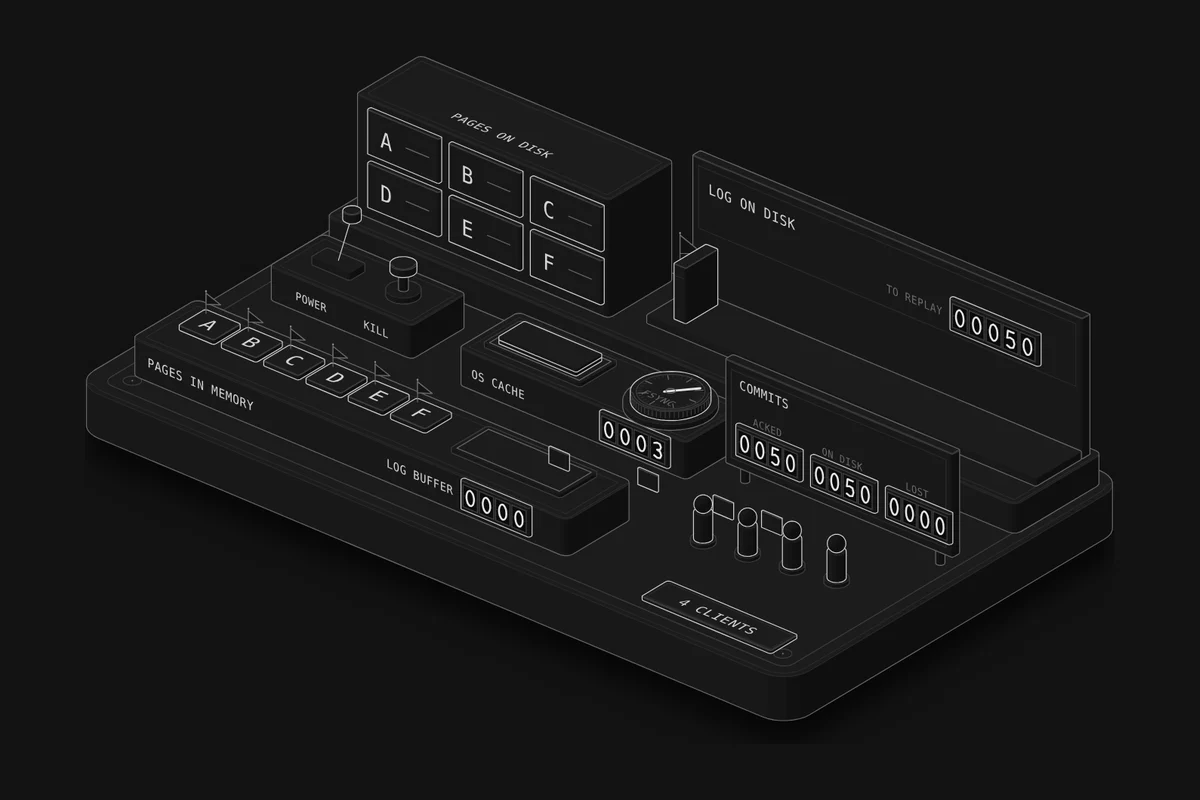
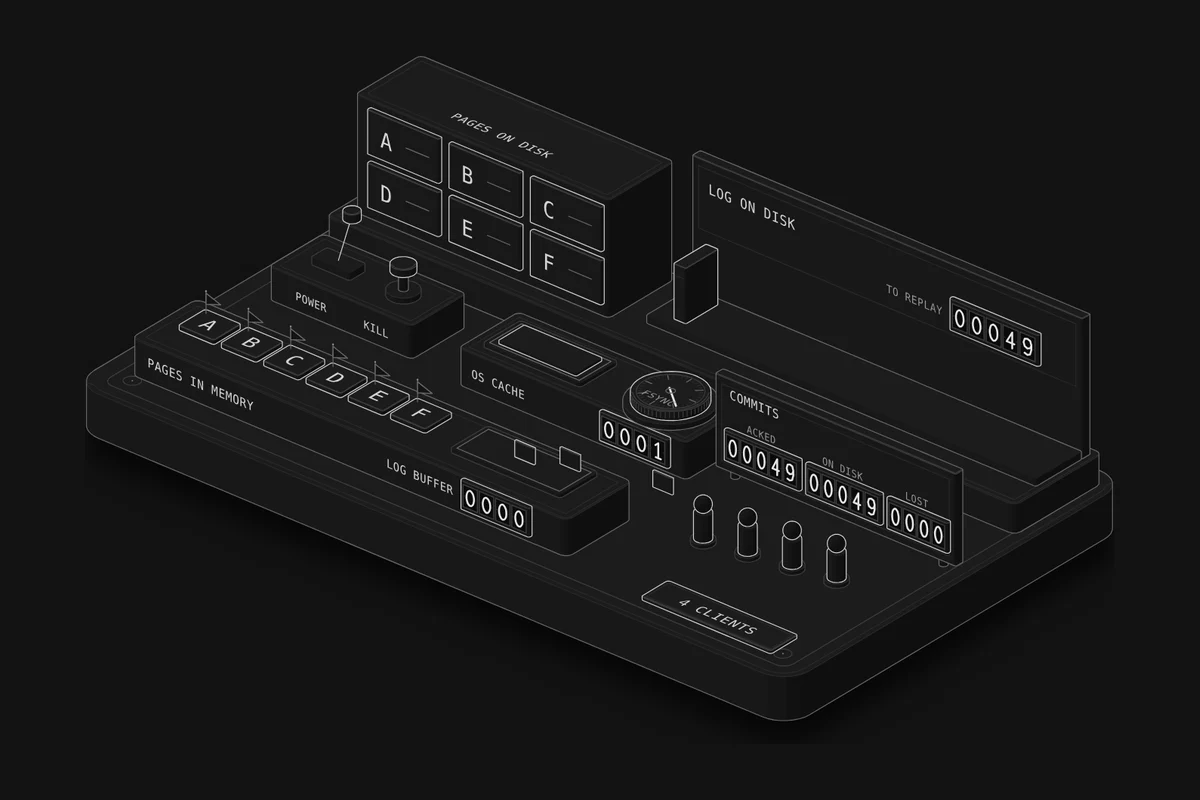
Lesson 66: fix review findings (Watch timing, lit, board over the books, +N clients)
- Watches warm up past the first checkpoint and flush, so each crash shows its
  outcome within 7 s: no log 1,000 of ~1,280 survive; write() kill loses 0 then
  a power cut loses ~245; async loses ~125 of ~1,280. The checkpoint Watch now
  stages 10,000 (the setting the verdict compares) and replays ~4,900 records.
- Lit means only "acknowledged, not on disk yet": the recovery clerk and the
  book he replays are no longer lit; OS-cache sheets stay lit after a kill.
- The redo-point pennant is gone (pennants mean a dirty page only); books start
  at the shelf's left end.
- The COMMITS board is lower so the books behind it show; ACKED and ON DISK
  have five wheels for warmed-up runs.
- 16 clients: a +8 tag for the figures not drawn.
- Aria label no longer names a DISK marking that isn't printed; readout
  plurals agree; no-checkpoint recovery says so.

Claude-Session: https://claude.ai/code/session_01S5z2gCvevbrGU3fXgpGDmP

diff --git a/src/lessons/wal/page.ts b/src/lessons/wal/page.ts
@@ -69,7 +69,8 @@ const RUNS = {
 };
 
 const { nolog: N, write: W, group: G, ckpt: K, async: A } = R;
-const WATCH = (o) => ({ log: "on", commit: "group", ckpt: 1000, clients: 4, speed: 0.01, crashes: [], ...o });
+// warm: model ms each staged run starts at, so its crash comes after the first checkpoint (and, with a log, a flush)
+const WATCH = (o) => ({ log: "on", commit: "group", ckpt: 1000, clients: 4, speed: 0.01, crashes: [], warm: 0, ...o });
 
 const EXPERIMENTS = [
   {
@@ -88,7 +89,7 @@ const EXPERIMENTS = [
       "Without a log, an acknowledged commit lives only in a page in memory until a checkpoint writes that page out, and a power cut takes memory with it: " + int(N.off.lostP) + " acknowledged commits lost per crash on average, everything since the last page write, up to the last " + ms(N.off.maxWinP) + ". With the log on and the OK sent after the log is flushed, " + int(N.on.lostP) + ". Writing every changed page at each commit would also close the gap, but pages are large random writes, and a commit that changes several pages can be cut halfway through. The log turns that into one small sequential append per commit: once its record is on disk, the change can be redone from it, however late the page itself is written. A store that only takes periodic snapshots, like Redis with RDB and no append-only file, makes this same trade on purpose.",
       "Sin log, un commit confirmado vive solo en una página en memoria hasta que un checkpoint (punto de control) escribe esa página, y un corte de energía se lleva la memoria: " + int(N.off.lostP) + " commits confirmados perdidos por caída en promedio, todo lo posterior a la última escritura de páginas, hasta los últimos " + ms(N.off.maxWinP) + ". Con el log encendido y el OK enviado después de escribir el log a disco, " + int(N.on.lostP) + ". Escribir cada página cambiada en cada commit también cerraría el hueco, pero las páginas son escrituras grandes y aleatorias, y un commit que cambia varias páginas puede quedar cortado a la mitad. El log lo convierte en un agregado pequeño y secuencial por commit: una vez que su registro está en disco, el cambio se puede rehacer desde ahí, por tarde que se escriba la página. Un almacén que solo toma instantáneas periódicas, como Redis con RDB y sin archivo append-only, hace este mismo intercambio a propósito.",
     ),
-    watch: WATCH({ log: "off", crashes: [["power", 9]] }),
+    watch: WATCH({ log: "off", warm: 1300, crashes: [["power", 4]] }),
   },
   {
     id: "write",
@@ -106,7 +107,7 @@ const EXPERIMENTS = [
       "write() copies the record into the operating system's page cache and returns; the kernel writes it to disk later, or when someone calls fsync. If only the database process dies, the kernel keeps running and its cache still reaches disk: " + int(W.write.lostK) + " acknowledged commits lost per crash. If the power goes, the cache goes with it: " + int(W.write.lostP) + " per crash on average, from up to the last " + ms(W.write.maxWinP) + " (the flush runs once a second, and each checkpoint forces one). That is InnoDB's documented trade for setting 2: a crash of mysqld loses nothing, an operating system crash or a power outage can lose about the last second. And a flush is only as good as the disk under it: a drive with a volatile write cache that doesn't honour flushes can still lose it, which is why servers use SSDs with power-loss protection or a battery-backed controller.",
       "write() copia el registro en la caché de páginas del sistema operativo (page cache) y vuelve; el kernel lo escribe a disco más tarde, o cuando alguien llama a fsync. Si solo muere el proceso de la base de datos, el kernel sigue corriendo y su caché igual llega al disco: " + int(W.write.lostK) + " commits confirmados perdidos por caída. Si se va la energía, la caché se va con ella: " + int(W.write.lostP) + " por caída en promedio, de hasta los últimos " + ms(W.write.maxWinP) + " (la escritura a disco corre una vez por segundo, y cada checkpoint fuerza una). Es el intercambio documentado de InnoDB para el valor 2: una caída de mysqld no pierde nada, una caída del sistema operativo o un corte de energía puede perder más o menos el último segundo. Y una escritura a disco vale lo que vale el disco: una unidad con caché de escritura volátil que no respeta los flush todavía puede perderla, por eso los servidores usan SSD con protección contra pérdida de energía o una controladora con batería.",
     ),
-    watch: WATCH({ commit: "write", crashes: [["process", 7], ["power", 8]] }),
+    watch: WATCH({ commit: "write", warm: 1300, crashes: [["process", 0.5], ["power", 0.5]] }),
   },
   {
     id: "group",
@@ -142,7 +143,7 @@ const EXPERIMENTS = [
       "Dirty pages in memory aren't at risk: every change in them is already in the log on disk. What a checkpoint buys is a shorter log to replay. Recovery starts at the redo point of the last complete checkpoint and replays every record after it: " + int(K.short.replay) + " records per crash on average with a checkpoint every 1,000 (" + ms(K.short.replayMs) + " here), " + int(K.long.replay) + " with one every 10,000 (" + ms(K.long.replayMs) + "); lost commits, " + int(K.short.lostP) + " and " + int(K.long.lostP) + ". The other side of the trade: each checkpoint writes every page that changed since the last one, however many times it changed, so frequent checkpoints write more: " + one(K.short.pagesPer1000) + " page writes per 1,000 commits against " + one(K.long.pagesPer1000) + ", and " + one(K.tiny.pagesPer1000) + " with one every 100 records. PostgreSQL also logs a full copy of each page the first time it changes after a checkpoint (full_page_writes), so frequent checkpoints grow the log too. Its defaults, checkpoint_timeout = 5 min and max_wal_size = 1 GB, put crash recovery in seconds to minutes; the replay rate here, " + int(PER_S) + " records a second, is illustrative.",
       "Las páginas sucias (dirty pages) en memoria no están en riesgo: cada cambio que tienen ya está en el log en disco. Lo que compra un checkpoint es un log más corto que reproducir. La recuperación empieza en el punto de rehacer (redo point) del último checkpoint completo y reproduce cada registro posterior: " + int(K.short.replay) + " registros por caída en promedio con un checkpoint cada 1,000 (" + ms(K.short.replayMs) + " aquí), " + int(K.long.replay) + " con uno cada 10,000 (" + ms(K.long.replayMs) + "); commits perdidos, " + int(K.short.lostP) + " y " + int(K.long.lostP) + ". El otro lado del intercambio: cada checkpoint escribe cada página que cambió desde el anterior, sin importar cuántas veces cambió, así que los checkpoints frecuentes escriben más: " + one(K.short.pagesPer1000) + " escrituras de página cada 1,000 commits contra " + one(K.long.pagesPer1000) + ", y " + one(K.tiny.pagesPer1000) + " con uno cada 100 registros. PostgreSQL además guarda en el log una copia completa de cada página la primera vez que cambia después de un checkpoint (full_page_writes), así que los checkpoints frecuentes también agrandan el log. Sus valores por defecto, checkpoint_timeout = 5 min y max_wal_size = 1 GB, dejan la recuperación tras una caída en segundos o minutos; la velocidad de reproducción de aquí, " + int(PER_S) + " registros por segundo, es ilustrativa.",
     ),
-    watch: WATCH({ ckpt: 100, speed: 0.04, crashes: [["power", 12]] }),
+    watch: WATCH({ ckpt: 10000, speed: 0.04, warm: 26000, crashes: [["power", 0.5]] }),
   },
   {
     id: "async",
@@ -160,7 +161,7 @@ const EXPERIMENTS = [
       "The log still reaches disk in order, only later. A crash loses the commits acknowledged since the last flush: " + int(A.async.lostP) + " per power cut on average, none older than " + ms(A.async.maxWinP) + " (a process crash loses them too, since they wait in the database's own memory). Everything before replays to a consistent state: the log is replayed in commit order, so a later commit can't survive while an earlier one it built on is lost. In exchange the OK doesn't wait for a flush: " + int(A.async.rate) + " commits a second against " + int(A.group.rate) + " with group commit, same 4 clients. PostgreSQL bounds the window at three times wal_writer_delay (200 ms by default) and lets you choose per transaction: SET LOCAL synchronous_commit = off for a page-view counter, on for a payment. That's not fsync = off, which skips every flush, pages included, and after a power cut can leave a database that recovery can't repair.",
       "El log igual llega a disco en orden, solo que más tarde. Una caída pierde los commits confirmados desde la última escritura a disco: " + int(A.async.lostP) + " por corte de energía en promedio, ninguno de hace más de " + ms(A.async.maxWinP) + " (un proceso matado también los pierde, porque esperan en la memoria de la propia base de datos). Todo lo anterior se reproduce hasta un estado consistente: el log se reproduce en orden de commit, así que un commit posterior no puede sobrevivir si se pierde uno anterior del que dependía. A cambio, el OK no espera una escritura a disco: " + int(A.async.rate) + " commits por segundo contra " + int(A.group.rate) + " con commit en grupo, con los mismos 4 clientes. PostgreSQL acota la ventana a tres veces wal_writer_delay (200 ms por defecto) y deja elegir por transacción: SET LOCAL synchronous_commit = off para un contador de visitas, on para un pago. No es lo mismo que fsync = off, que se salta todas las escrituras a disco, páginas incluidas, y tras un corte de energía puede dejar una base de datos que la recuperación no puede reparar.",
     ),
-    watch: WATCH({ commit: "async", crashes: [["power", 12]] }),
+    watch: WATCH({ commit: "async", warm: 1300, crashes: [["power", 4]] }),
   },
 ];
 
@@ -196,13 +197,13 @@ export default defineLesson({
     plate: {
       title: t("Ledger room", "Sala de libros"),
       keys: [
-        { mark: "lit", label: t("Acknowledged, not on disk yet: a sheet in a tray, a page card with no log; in recovery, the clerk and the book he replays", "Confirmado y todavía no en disco: una hoja en una bandeja, una tarjeta de página sin log; en la recuperación, el empleado y el libro que reproduce") },
-        { mark: "raised", label: t("Books: log records on disk since the checkpoint's redo point (the pennant); sheets: records in memory or in the OS cache", "Libros: registros del log en disco desde el punto de rehacer del checkpoint (el banderín); hojas: registros en memoria o en la caché del SO") },
+        { mark: "lit", label: t("Acknowledged, not on disk yet: a sheet in a tray, a page card with no log", "Confirmado y todavía no en disco: una hoja en una bandeja, una tarjeta de página sin log") },
+        { mark: "raised", label: t("Books: log records on disk since the last checkpoint's redo point, from the shelf's left end; sheets: records in memory or in the OS cache", "Libros: registros del log en disco desde el punto de rehacer del último checkpoint, desde el extremo izquierdo del estante; hojas: registros en memoria o en la caché del SO") },
         { mark: "flat", label: t("Drawers: the pages on disk, pulled out while a checkpoint writes them", "Cajones: las páginas en disco, abiertos mientras un checkpoint las escribe") },
       ],
       caption: t(
-        "Played 100 times slower than real time (change it under Speed). Times are illustrative and round: a transaction works " + WORK + " ms before it commits, a client pauses " + THINK + " ms on average between transactions, a flush to disk (fsync) takes " + FSYNC + " ms, writing a page at a checkpoint " + PAGE_W + " ms, and recovery replays " + int(PER_S) + " records a second. Write, no fsync: the log is flushed once a second. Async: the log writer runs every " + WRITER + " ms. A pennant on a page card: the page is newer in memory than on disk. Each book stands for a twentieth of the checkpoint interval. Counters: commits the clients got an OK for (ACKED), how many of them are ON DISK and would survive a power cut, and acknowledged commits LOST in the last crash.",
-        "Se reproduce 100 veces más lento que el tiempo real (cámbialo en Velocidad). Los tiempos son ilustrativos y redondos: una transacción trabaja " + WORK + " ms antes del commit, un cliente hace una pausa de " + THINK + " ms en promedio entre transacciones, una escritura a disco (fsync) tarda " + FSYNC + " ms, escribir una página en un checkpoint " + PAGE_W + " ms, y la recuperación reproduce " + int(PER_S) + " registros por segundo. Write, sin fsync: el log se escribe a disco una vez por segundo. Asíncrono: el escritor del log corre cada " + WRITER + " ms. Un banderín en una tarjeta de página: la página es más nueva en memoria que en disco. Cada libro representa la vigésima parte del intervalo entre checkpoints. Contadores: commits por los que los clientes recibieron un OK (CONFIRMADOS), cuántos de ellos están EN DISCO y sobrevivirían a un corte de energía, y commits confirmados PERDIDOS en la última caída.",
+        "Played 100 times slower than real time (change it under Speed). Times are illustrative and round: a transaction works " + WORK + " ms before it commits, a client pauses " + THINK + " ms on average between transactions, a flush to disk (fsync) takes " + FSYNC + " ms, writing a page at a checkpoint " + PAGE_W + " ms, and recovery replays " + int(PER_S) + " records a second. Write, no fsync: the log is flushed once a second. Async: the log writer runs every " + WRITER + " ms. A pennant on a page card: the page is newer in memory than on disk. Each book stands for a twentieth of the checkpoint interval; in recovery a clerk walks the books he replays. Past eight clients, +N counts the ones not drawn. Counters: commits the clients got an OK for (ACKED), how many of them are ON DISK and would survive a power cut, and acknowledged commits LOST in the last crash.",
+        "Se reproduce 100 veces más lento que el tiempo real (cámbialo en Velocidad). Los tiempos son ilustrativos y redondos: una transacción trabaja " + WORK + " ms antes del commit, un cliente hace una pausa de " + THINK + " ms en promedio entre transacciones, una escritura a disco (fsync) tarda " + FSYNC + " ms, escribir una página en un checkpoint " + PAGE_W + " ms, y la recuperación reproduce " + int(PER_S) + " registros por segundo. Write, sin fsync: el log se escribe a disco una vez por segundo. Asíncrono: el escritor del log corre cada " + WRITER + " ms. Un banderín en una tarjeta de página: la página es más nueva en memoria que en disco. Cada libro representa la vigésima parte del intervalo entre checkpoints; en la recuperación, un empleado recorre los libros que reproduce. Con más de ocho clientes, +N cuenta los que no están dibujados. Contadores: commits por los que los clientes recibieron un OK (CONFIRMADOS), cuántos de ellos están EN DISCO y sobrevivirían a un corte de energía, y commits confirmados PERDIDOS en la última caída.",
       ),
       stage: { "data-ledger-room": "" },
       label: t("Write-ahead log simulation. Space pauses or resumes.", "Simulación de un registro de escritura anticipada. Espacio pausa o reanuda."),

diff --git a/src/lessons/wal/figure.ts b/src/lessons/wal/figure.ts
@@ -1,11 +1,12 @@
 // @ts-nocheck: figure code in the style of the other lessons; drawing shorthands come from src/lib/draw.
-// A ledger room. At the back, on the DISK plinth, what survives a power cut: the cabinet of PAGES ON DISK (drawers A
-// to F) and the shelf of the LOG ON DISK, whose books are the log records written since the last checkpoint (the
-// pennant marks its redo point; TO REPLAY counts them). In the middle, the power box (POWER lever, KILL plunger), the
-// OS CACHE tray with the FSYNC dial beside it, and the COMMITS board (ACKED, ON DISK, LOST). In front, the database's
-// desk, its memory: the page cards A to F lying on it (a pennant on a page that is newer than its copy on disk) and the LOG BUFFER
-// tray. The clients stand at the front right and send their commits to the desk. During recovery a clerk with a
-// clipboard walks the shelf, replaying its books.
+// A ledger room. At the back, on the disk plinth, what survives a power cut: the cabinet of PAGES ON DISK (drawers A
+// to F) and the shelf of the LOG ON DISK, whose books are the log records written since the last checkpoint's redo
+// point (TO REPLAY counts them). In the middle, the power box (POWER lever, KILL plunger), the OS CACHE tray with the
+// FSYNC dial beside it, and the low COMMITS board (ACKED, ON DISK, LOST), kept low so the books behind it show. In
+// front, the database's desk, its memory: the page cards A to F lying on it (a pennant on a page that is newer than its
+// copy on disk) and the LOG BUFFER tray. The clients stand at the front right and send their commits to the desk; past
+// eight, a "+N" tag counts the ones not drawn. During recovery a clerk with a clipboard walks the shelf, replaying its
+// books.
 // Built with the Anatomy kit (MIT, github.com/wheresryan22/anatomy) and the shared workbench parts.
 import * as k from "../../../workbench/kit.mjs";
 import { basePlate, digitCounter, person, figurine, dial, plaque, pennant, faceText, variants, litFill } from "../../../workbench/parts.mjs";
@@ -46,8 +47,8 @@ const OSC = { x: -40, y: -38, w: 70, d: 22, r: 1.4 };
 const OSC_H = 10;
 export const OS_TRAY = { x: OSC.x + 4, y: OSC.y + 4, w: 30, d: 14, z: OSC_H };
 const DIAL_AT = [OSC.x + OSC.w - 14, OSC.y + 11];
-const BOARD = { x: 36, y: -26, w: 70, d: 3, r: 0.6 };
-const BOARD_Z = 4, BOARD_H = 28;
+const BOARD = { x: 33, y: -26, w: 74, d: 3, r: 0.6 };
+const BOARD_Z = 2, BOARD_H = 25;           // low enough that the books on the shelf behind it show
 
 // ---------- the desk, in front ----------
 const DESK = { x: -102, y: 6, w: 134, d: 24, r: 2 };
@@ -112,20 +113,18 @@ function shelf() {
   // the shelf board the books stand on
   const board = { x: SHELF.x, y: SHELF.y + 3, w: SHELF.w, d: SHELF.d - 3, r: 0.6 };
   out.push(S(k.slabOf(board, PLINTH_H, 2, P, 2, 0.3), { tone: "mid", crease: "none" }));
-  // the redo point: a pennant at the left end
-  out.push(pennant(P, { x: SHELF.x + 3, y: BOOK.y + BOOK.d / 2, z: BOOK.z, height: 19, length: 7, drop: 5 }));
-  // the books, hidden until the log has records since the checkpoint
+  // the books, hidden until the log has records since the checkpoint's redo point (the shelf's left end)
   for (let i = 0; i < BOOKS; i++) {
     const x = BOOK.x0 + i * BOOK.step;
     const plan = { x, y: BOOK.y, w: BOOK.w, d: BOOK.d, r: 0.4 };
     const h = BOOK.h - (i % 3) * 1.2;
-    out.push(`<g class="wb-lit-group" data-book="${i}" style="display:none">${S(k.slabOf(plan, BOOK.z, h, P, 2, 0.2), { tone: "hi", crease: "lo" })}`
+    out.push(`<g data-book="${i}" style="display:none">${S(k.slabOf(plan, BOOK.z, h, P, 2, 0.2), { tone: "hi", crease: "lo" })}`
       + L(k.segment([x + 0.6, BOOK.y + BOOK.d, BOOK.z + h - 3], [x + BOOK.w - 0.6, BOOK.y + BOOK.d, BOOK.z + h - 3], P), { tone: "faint" }) + `</g>`);
   }
   return out.join("");
 }
 function clerk() {
-  return `<g data-clerk style="display:none"><g class="wb-lit-group" data-clerk-body>${litFill(person(P, [0, 0, 0], { scale: 0.85, holding: "clipboard" }))}</g></g>`;
+  return `<g data-clerk style="display:none">${person(P, [0, 0, 0], { scale: 0.85, holding: "clipboard" })}</g>`;
 }
 
 // ---------- middle row ----------
@@ -180,12 +179,13 @@ function board() {
   for (const x of [BOARD.x + 5, x1 - 5]) out.push(S(k.cylinder(x, BOARD.y + 1.5, 1.1, 0, z0, P, 12), { tone: "mid", crease: "none" }));
   out.push(S(k.slabOf(BOARD, z0, BOARD_H, P, 3, 0.4), { tone: "mid", crease: "lo" }));
   out.push(L(k.faceRectY(P, BOARD.x + 2, x1 - 2, face, z0 + 2, top - 2), { tone: "faint" }));
-  out.push(words(BOARD.x + 4.5, face, top - 6.4, t("COMMITS", "COMMITS"), 3.4, { tone: "hi" }));
-  const cnt = (x, name, w) => digitCounter(P, { x, y: face, z: z0 + 4, count: 4, w: 4.2, h: 6.4, gap: 0.5, pad: 0.9, name })
-    + words(x + 9.15, face, z0 + 13.2, w, 2.8, { anchor: "middle" });
-  out.push(cnt(BOARD.x + 4, "acked", t("ACKED", "CONFIRMADOS")));
-  out.push(cnt(BOARD.x + 27, "ondisk", t("ON DISK", "EN DISCO")));
-  out.push(cnt(BOARD.x + 50, "lost", t("LOST", "PERDIDOS")));
+  out.push(words(BOARD.x + 4.5, face, top - 5.2, t("COMMITS", "COMMITS"), 3.4, { tone: "hi" }));
+  // ACKED and ON DISK need five wheels: a Watch warmed up past a 10,000-record checkpoint counts beyond 9,999
+  const cnt = (x, name, w, count) => digitCounter(P, { x, y: face, z: z0 + 3.4, count, w: 3.9, h: 6.4, gap: 0.5, pad: 0.9, name })
+    + words(x + (count * 4.4 - 0.5) / 2, face, z0 + 12.6, w, 2.8, { anchor: "middle" });
+  out.push(cnt(BOARD.x + 3.5, "acked", t("ACKED", "CONFIRMADOS"), 5));
+  out.push(cnt(BOARD.x + 28.5, "ondisk", t("ON DISK", "EN DISCO"), 5));
+  out.push(cnt(BOARD.x + 53.5, "lost", t("LOST", "PERDIDOS"), 4));
   return out.join("");
 }
 
@@ -210,6 +210,8 @@ function clients() {
   const out = CLIENT_AT.map(([x, y], i) => `<g data-client="${i}"${i < 4 ? "" : ' style="display:none"'}>${figurine(P, [x, y, 0], { scale: 0.95 })}</g>`);
   out.push(plaque(P, { x: 58, y: 24, w: 40, d: 10 }));
   out.push(faceText(P, [78, 24 + 7, 0.8], t("4 CLIENTS", "4 CLIENTES"), { face: "top", size: 4, tone: "hi", anchor: "middle", attr: "data-clients" }));
+  // past eight clients, the ones not drawn: a "+N" tag after the last figure
+  out.push(`<g data-more style="display:none">${faceText(P, [103, 12, 0], "+8", { face: "top", size: 4, tone: "hi", anchor: "middle", attr: "data-more-label" })}</g>`);
   return out.join("");
 }
 
@@ -224,8 +226,8 @@ export function buildFigure() {
     width: WIDTH,
     height: HEIGHT,
     label: t(
-      "A ledger room on a base plate. At the back, a plinth marked DISK holds what survives a power cut: a cabinet of PAGES ON DISK with drawers A to F, and a shelf labelled LOG ON DISK whose books are the log records flushed since the last checkpoint; a pennant at its left end marks the checkpoint's redo point, and a TO REPLAY counter shows how many records recovery would replay. In the middle stand a power box with a POWER lever and a KILL plunger, an OS CACHE tray holding records handed to the operating system but not yet flushed, with an FSYNC dial whose needle sweeps on every flush, and a COMMITS board counting ACKED commits, commits ON DISK and acknowledged commits LOST in the last crash. In front, the database's desk holds its memory: page cards A to F, each with a pennant while it is newer than its copy on disk, and a LOG BUFFER tray. Sheets stacked in the trays are lit while they hold commits that were already acknowledged. Clients at the front right send their commits to the desk. During recovery a clerk with a clipboard walks along the shelf, replaying its books.",
-      "Una sala de libros contables sobre una placa base. Al fondo, una plataforma marcada DISCO tiene lo que sobrevive a un corte de energía: un gabinete de PÁGINAS EN DISCO con cajones de la A a la F, y un estante rotulado LOG EN DISCO cuyos libros son los registros del log escritos en disco desde el último checkpoint; un banderín en su extremo izquierdo marca el punto de rehacer (redo point) del checkpoint, y un contador POR REHACER muestra cuántos registros reproduciría la recuperación. En el medio hay una caja de energía con una palanca ENERGÍA y un pulsador MATAR, una bandeja CACHÉ DEL SO con los registros entregados al sistema operativo pero aún no escritos en disco, con un dial FSYNC cuya aguja da una vuelta en cada escritura a disco, y un tablero COMMITS que cuenta los commits CONFIRMADOS, los commits EN DISCO y los commits confirmados PERDIDOS en la última caída. Adelante, el escritorio de la base de datos tiene su memoria: tarjetas de página de la A a la F, cada una con un banderín mientras es más nueva que su copia en disco, y una bandeja BÚFER DEL LOG. Las hojas apiladas en las bandejas se encienden mientras tienen commits ya confirmados. Los clientes, adelante a la derecha, mandan sus commits al escritorio. Durante la recuperación, un empleado con un portapapeles recorre el estante y reproduce sus libros.",
+      "A ledger room on a base plate. At the back, a plinth holds what is on disk and survives a power cut: on the left, a cabinet of PAGES ON DISK with drawers A to F; on the right, a shelf labelled LOG ON DISK whose books are the log records flushed since the last checkpoint's redo point, starting at its left end, and a TO REPLAY counter showing how many records recovery would replay. In the middle, from left to right, stand a power box with a POWER lever and a KILL plunger, an OS CACHE tray holding records handed to the operating system but not yet flushed, with an FSYNC dial whose needle sweeps on every flush, and a low COMMITS board in front of the shelf counting ACKED commits, commits ON DISK and acknowledged commits LOST in the last crash. In front, the database's desk holds its memory: page cards A to F on the left, each with a pennant while it is newer than its copy on disk, and a LOG BUFFER tray on the right. Sheets in the trays and page cards are lit while they hold commits that were acknowledged but aren't on disk yet. Clients at the front right, behind a plaque that says how many there are, send their commits to the desk. During recovery a clerk with a clipboard walks along the shelf, replaying its books.",
+      "Una sala de libros contables sobre una placa base. Al fondo, una plataforma tiene lo que está en disco y sobrevive a un corte de energía: a la izquierda, un gabinete de PÁGINAS EN DISCO con cajones de la A a la F; a la derecha, un estante rotulado LOG EN DISCO cuyos libros son los registros del log escritos en disco desde el punto de rehacer (redo point) del último checkpoint, a partir de su extremo izquierdo, y un contador POR REHACER que muestra cuántos registros reproduciría la recuperación. En el medio, de izquierda a derecha, hay una caja de energía con una palanca ENERGÍA y un pulsador MATAR, una bandeja CACHÉ DEL SO con los registros entregados al sistema operativo pero aún no escritos en disco, con un dial FSYNC cuya aguja da una vuelta en cada escritura a disco, y un tablero COMMITS bajo, delante del estante, que cuenta los commits CONFIRMADOS, los commits EN DISCO y los commits confirmados PERDIDOS en la última caída. Adelante, el escritorio de la base de datos tiene su memoria: tarjetas de página de la A a la F a la izquierda, cada una con un banderín mientras es más nueva que su copia en disco, y una bandeja BÚFER DEL LOG a la derecha. Las hojas de las bandejas y las tarjetas de página se encienden mientras tienen commits confirmados que todavía no están en disco. Los clientes, adelante a la derecha, detrás de una placa que dice cuántos son, mandan sus commits al escritorio. Durante la recuperación, un empleado con un portapapeles recorre el estante y reproduce sus libros.",
     ),
     body: [
       plate(),

diff --git a/src/lessons/wal/live.ts b/src/lessons/wal/live.ts
@@ -22,7 +22,8 @@ export default function mount({ P, G, SLIP_SVG }, root) {
   const dirty = Array.from({ length: PAGES }, (_, i) => q(`[data-dirty="${i}"]`));
   const clientEls = qa("[data-client]");
   const clientsText = q("[data-clients]");
-  const clerk = q("[data-clerk]"), clerkBody = q("[data-clerk-body]");
+  const clerk = q("[data-clerk]");
+  const more = q("[data-more]"), moreLabel = q("[data-more-label]");
   const counters = Object.fromEntries(["replay", "os", "buffer", "acked", "ondisk", "lost"].map((n) => [n, WB.counter(svg, n, P)]));
   const fsync = WB.dial(svg, "fsync", P);
 
@@ -30,6 +31,7 @@ export default function mount({ P, G, SLIP_SVG }, root) {
   const cfg = { log: "on", commit: "group", ckpt: 1000, clients: 4, speed: 0.01 };
   let model, clock, logAt, seed = 5, pages = null, lost = 0, phase = "run", phaseT = 0, crashRes = null, plan = [], screenT = 0;
   let saidAt = -9, saidRank = 0, lastCk = null, saidLsn = 0;
+  let warm = 0;                                        // a Watch's warm-up: model ms run unseen at the start of each run it stages
   const slips = [], freeSlips = [];
 
   function restart(keepPages) {
@@ -40,8 +42,15 @@ export default function mount({ P, G, SLIP_SVG }, root) {
     WB.pose(svg, "lever", "on"); WB.pose(svg, "plunger", "up");
     show(clerk, false);
     const n = Number(cfg.clients);
-    clientEls.forEach((el, i) => show(el, i < Math.min(n, 8)));
+    clientEls.forEach((el, i) => show(el, i < Math.min(n, clientEls.length)));
+    show(more, n > clientEls.length); setText(moreLabel, "+" + (n - clientEls.length));
     setText(clientsText, L(n + " CLIENTS", n + " CLIENTES"));
+    // a Watch that still has crashes to stage starts each run warmed up, past the first checkpoint and flush
+    if (warm && plan.length) {
+      clock = warm; model.runTo(clock);
+      logAt = model.log.length;
+      saidLsn = model.recs.length ? model.recs[model.recs.length - 1].lsn : 0;
+    }
     paint();
     showStats();
   }
@@ -55,6 +64,8 @@ export default function mount({ P, G, SLIP_SVG }, root) {
   }
   const int = (x) => Math.round(x).toLocaleString("en");
   const ms = (x) => (x < 10 ? x.toFixed(1) : String(Math.round(x))) + " ms";
+  // "1 record" / "2 records", in both languages
+  const nOf = (n, en1, en, es1, es) => (n === 1 ? T("1 " + en1, "1 " + es1) : T(int(n) + " " + en, int(n) + " " + es));
   function narrate() {
     for (; logAt < model.log.length; logAt++) {
       const e = model.log[logAt];
@@ -63,12 +74,12 @@ export default function mount({ P, G, SLIP_SVG }, root) {
       switch (e.type) {
         case "flush":
           if (cfg.commit === "group" || cfg.commit === "each") say(1, nRec > 1 ? T("fsync: " + nRec + " commits in one flush · OK after it", "fsync: " + nRec + " commits en una escritura · OK después") : T("fsync: one commit · OK once it's on disk", "fsync: un commit · OK cuando está en disco"));
-          else say(3, T("flush: " + int(nRec) + " acknowledged records reach disk", "escritura: " + int(nRec) + " registros ya confirmados llegan al disco"));
+          else { const w = nOf(nRec, "acknowledged record reaches", "acknowledged records reach", "registro ya confirmado llega", "registros ya confirmados llegan"); say(3, T("flush: " + w.en + " disk", "escritura: " + w.es + " al disco")); }
           break;
         case "ckptStart": say(2, T("checkpoint: log on disk up to record " + int(e.redo) + ", then the dirty pages", "checkpoint: log en disco hasta el registro " + int(e.redo) + ", luego las páginas sucias")); break;
-        case "ckptDone": say(3, cfg.log === "on"
-          ? T("checkpoint done: " + e.pages + " pages written · recovery would start at record " + int(e.redo), "checkpoint listo: " + e.pages + " páginas escritas · la recuperación empezaría en el registro " + int(e.redo))
-          : T(e.pages + " pages written · the only copy that survives a crash", e.pages + " páginas escritas · la única copia que sobrevive a una caída")); break;
+        case "ckptDone": { const pw = nOf(e.pages, "page written", "pages written", "página escrita", "páginas escritas"); say(3, cfg.log === "on"
+          ? T("checkpoint done: " + pw.en + " · recovery would start at record " + int(e.redo), "checkpoint listo: " + pw.es + " · la recuperación empezaría en el registro " + int(e.redo))
+          : T(pw.en + " · the only copy that survives a crash", pw.es + " · la única copia que sobrevive a una caída")); break; }
       }
     }
     if (logAt > 4000) { model.log.splice(0, logAt); logAt = 0; }
@@ -91,9 +102,9 @@ export default function mount({ P, G, SLIP_SVG }, root) {
     sheets[name].forEach((el, i) => { show(el, i < k); setLit(el, lit && i < k); });
   }
   const perBook = () => Math.max(1, Number(cfg.ckpt) / G.BOOKS);
-  function shelf(count, litAt = -1) {
+  function shelf(count) {
     const k = Math.min(G.BOOKS, Math.ceil(count / perBook()));
-    books.forEach((el, i) => { show(el, i < k); setLit(el, i === litAt); });
+    books.forEach((el, i) => show(el, i < k));
   }
   function drawers(on) { for (let i = 0; i < PAGES; i++) WB.pose(svg, "drawer-" + i, on.includes(i) ? "out" : "in"); }
 
@@ -170,13 +181,14 @@ export default function mount({ P, G, SLIP_SVG }, root) {
     // memory is gone: the log buffer and the pages in memory; the OS cache too on a power cut
     stack("buf", 0, false); counters.buffer.set(0);
     const osLeft = cfg.log === "on" && kind === "process" ? model.osLsn - model.diskLsn : 0;
-    stack("os", osLeft, false); counters.os.setClamped(osLeft);
+    // a process crash leaves the OS cache: records there still reach disk, but until then they stay at risk
+    stack("os", osLeft, cfg.commit === "async" || cfg.commit === "write"); counters.os.setClamped(osLeft);
     cards.forEach((c) => show(c, false)); dirty.forEach((d) => show(d, false));
     fsync.set(0);
     counters.lost.setClamped(lost);
     const what = kind === "power" ? T("power cut", "corte de energía") : T("process killed", "proceso matado");
     const tail = lost
-      ? T(" · " + int(lost) + " acknowledged commits lost", " · " + int(lost) + " commits confirmados perdidos")
+      ? (({ en, es }) => T(" · " + en, " · " + es))(nOf(lost, "acknowledged commit lost", "acknowledged commits lost", "commit confirmado perdido", "commits confirmados perdidos"))
       : T(" · no acknowledged commit lost", " · ningún commit confirmado perdido");
     say(9, T(what.en + tail.en, what.es + tail.es));
     showStats();
@@ -192,8 +204,12 @@ export default function mount({ P, G, SLIP_SVG }, root) {
       r.screen = clamp(r.replayMs / (1000 * cfg.speed), 1.2, 10);
       if (cfg.log === "on") {
         if (!r.replay) say(9, T("restart: nothing in the log after the checkpoint to replay", "reinicio: no hay nada en el log después del checkpoint que reproducir"));
-        else say(9, T("restart: replaying " + int(r.replay) + " records after the checkpoint · " + ms(r.replayMs), "reinicio: reproduce " + int(r.replay) + " registros después del checkpoint · " + ms(r.replayMs)));
-        show(clerk, true); setLit(clerkBody, true);
+        else {
+          const rec = nOf(r.replay, "record", "records", "registro", "registros");
+          if (!r.redo) say(9, T("restart: no checkpoint yet · replaying " + rec.en + " from the start of the log · " + ms(r.replayMs), "reinicio: todavía sin checkpoint · reproduce " + rec.es + " desde el principio del log · " + ms(r.replayMs)));
+          else say(9, T("restart: replaying " + rec.en + " after the checkpoint · " + ms(r.replayMs), "reinicio: reproduce " + rec.es + " después del checkpoint · " + ms(r.replayMs)));
+        }
+        show(clerk, true);
       } else {
         say(9, T("restart: no log to replay · the pages on disk are all there is", "reinicio: no hay log que reproducir · las páginas en disco son todo lo que queda"));
       }
@@ -203,8 +219,7 @@ export default function mount({ P, G, SLIP_SVG }, root) {
       const u = clamp(phaseT / r.screen);
       if (cfg.log === "on") {
         const k = Math.min(G.BOOKS, Math.ceil(r.replay / perBook()));
-        const at = Math.min(k - 1, Math.floor(u * k));
-        shelf(r.replay, at);
+        shelf(r.replay);
         counters.replay.setClamped(Math.round(r.replay * (1 - u)));
         const x = k ? lerp(G.bookXs[0], G.bookXs[Math.max(0, k - 1)], u) : G.bookXs[0];
         clerk.setAttribute("transform", translateAlong(P, [x, G.CLERK_Y, G.PLINTH_H]));
@@ -256,24 +271,26 @@ export default function mount({ P, G, SLIP_SVG }, root) {
     root.press(name, raw);
     if (name === "speed") { cfg.speed = Number(raw); return; }
     cfg[name] = String(raw);
-    if (!quiet) { plan = []; restart(); phaseT = 0; say(9, T("settings applied · run restarted", "ajustes aplicados · ejecución reiniciada")); }
+    if (!quiet) { plan = []; warm = 0; restart(); phaseT = 0; say(9, T("settings applied · run restarted", "ajustes aplicados · ejecución reiniciada")); }
   }
   root.on("change", (name, value) => set(name, value));
   const wake = () => { if (loop.paused) loop.setPaused(false); };
   const actions = {
     power: () => { crash("power"); wake(); },
     kill: () => { crash("process"); wake(); },
-    reset: () => { plan = []; restart(); phaseT = 0; say(9, T("started over", "empezó de nuevo")); },
+    reset: () => { plan = []; warm = 0; restart(); phaseT = 0; say(9, T("started over", "empezó de nuevo")); },
   };
   root.on("action", (name) => actions[name]?.());
 
   // ---------- "Watch it on the machine": an experiment's settings, and its crashes ----------
   root.on("watch", (w) => {
     for (const key of ["log", "commit", "ckpt", "clients", "speed"]) set(key, w[key], true);
+    // crashes at page seconds after the start; after a crash, the next one counts from the restart. While crashes
+    // are still to come, each run starts w.warm model ms in, so the first one lands after a checkpoint and a flush.
+    plan = (w.crashes || []).map(([kind, after]) => [kind, after]);
+    warm = w.warm || 0;
     restart();
     say(9, T("experiment's settings applied · run restarted", "ajustes del experimento aplicados · ejecución reiniciada"));
-    // crashes at page seconds after the start; after a crash, the next one counts from the restart
-    plan = (w.crashes || []).map(([kind, after]) => [kind, after]);
     wake();
   });
 
